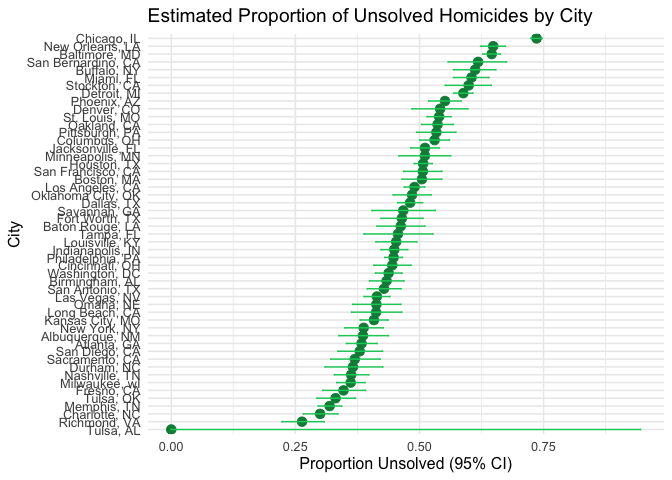
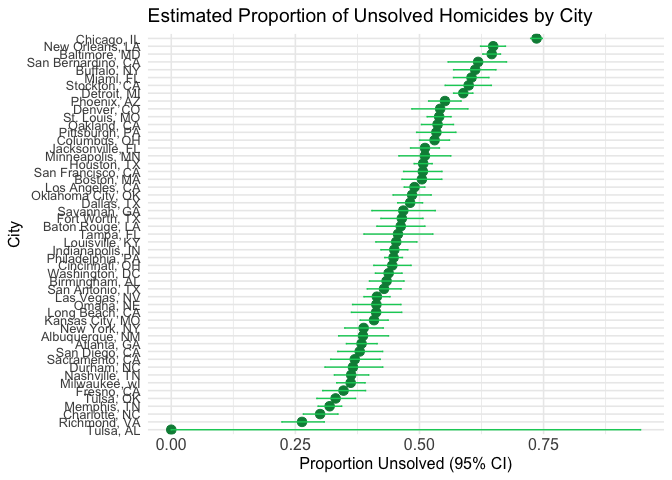
Update R Markdown -- Final commit before push

diff --git a/p8105_hw5_at3583.md b/p8105_hw5_at3583.md
@@ -1,21 +1,23 @@
-p8105_hw3_at3583
+p8105_hw5_at3583
 ================
 Alexandria D.Taylor,
-2025-11-10
+2025-11-13
 
-**<small><em>Overview: This homework applied .</small></em>**
+**This homework applied Monte Carlo methods, hypothesis testing, and
+proportion confidence intervals to examine probability, power, and
+uncertainty in simulated and real-world data.**
 
 # Problem 1 – Birthday Simulation
 
 ``` r
-#generate & run birthday simulation function
+# Generate birthday simulation function
 
 birthday_sim = function(n) {
   birthdays = sample(1:365, size = n, replace = TRUE)
   any(duplicated(birthdays))
 }
 
-#run birthday simulation function for group sizes 2 to 50 at 10,000 times each
+# Run birthday simulation function for group sizes 2 to 50 at 10,000 times each
 
 set.seed(123)
 
@@ -29,7 +31,7 @@ simulate_results = tibble(
   })
 )
 
-#data summary:compute the smallest group size where probability >= 0.5
+# Data summary:compute the smallest group size where probability >= 0.5
 threshold_50 <- simulate_results %>%
   filter(prob_shared_birthday >= 0.5) %>%
   slice(1) %>%
@@ -37,7 +39,7 @@ threshold_50 <- simulate_results %>%
 ```
 
 ``` r
-#probability vs group size plot
+# Probability vs group size plot
 
 simulate_results %>%
   ggplot(aes(x = group_size, y = prob_shared_birthday)) +
@@ -60,10 +62,10 @@ reaches **23 people**, a counterintuitive result known as the *birthday
 paradox*. By around **50 individuals**, the chance is nearly certain,
 making a shared birthday almost guaranteed.
 
-# Problem 2 – One Sample t-test
+# Problem 2 – One Sample t-Test
 
 ``` r
-#generate t-test parameters
+# Generate t-test parameters
 
 set.seed(8105)
 
@@ -71,13 +73,13 @@ n_sims <- 5000
 n      <- 30
 sigma  <- 5
 
-#true means to test 
+# True means test 
 mus    <- 0:6 
 alpha  <- 0.05
 ```
 
 ``` r
-# set-up n_sims dataset simultation at true mean mu
+# Set-up n_sims dataset simultation at true mean mu
 
 simulate_for_mu <- function(mu, n, sigma, n_sims, alpha = 0.05) {
   purrr::rerun(n_sims, rnorm(n, mean = mu, sd = sigma)) |>
@@ -93,20 +95,20 @@ simulate_for_mu <- function(mu, n, sigma, n_sims, alpha = 0.05) {
     })
 }
 
-# run n_sims dataset simultation 
+# Run n_sims dataset simulatation 
 
 sim_results <- purrr::map_dfr(mus, simulate_for_mu, n = n, sigma = sigma, n_sims = n_sims, alpha = alpha)
 ```
 
-## Power by effect size (mu)
+## <small><em> Power by effect size (mu) </small></em>
 
 ``` r
-#generate power datafram from simulation results
+# Generate power data frame from simulation results
 power_df <- sim_results |>
   group_by(mu) |>
   summarise(power = mean(reject), .groups = "drop")
 
-#generate average estimates-- overall vs. conditional on reject
+# Generate average estimates -- overall vs. conditional on reject
 estimates_df <- sim_results |>
   group_by(mu) |>
   summarise(
@@ -125,7 +127,7 @@ estimates_df <- sim_results |>
 ```
 
 ``` r
-#plot power df
+# Plot power df
 power_df |>
   ggplot(aes(x = mu, y = power)) +
   geom_line(color = primary_color, linewidth = 1.3) +
@@ -141,28 +143,24 @@ power_df |>
 ```
 
 ![](p8105_hw5_at3583_files/figure-gfm/unnamed-chunk-6-1.png)<!-- -->
+
 Summary: The probability of rejecting the null hypothesis increases as
-the true mean (μ) increases. When μ is close to 0, the test seldom
+the true mean (μ) increases. When μ is close to **0**, the test seldom
 rejects the null, indicating low power. As μ becomes larger, the effect
 becomes more detectable relative to noise, and power rises rapidly
-toward 1. This illustrates the fundamental principle that the expected
-relationship that larger effect sizes yield greater power in hypothesis
-testing.
+toward **1**. This illustrates the fundamental principle that the
+expected relationship that larger effect sizes yield greater power in
+hypothesis testing.
 
 ``` r
-# plot-estimates dataframe
+# Plot-estimates dataframe
 estimates_df |>
   ggplot(aes(x = mu, y = mean_hat, color = subset)) +
   geom_line(linewidth = 1) +
   geom_point(size = 2) +
   scale_x_continuous(breaks = mus) +
   scale_color_manual(values = c("All samples" = primary_color,
-                               "Reject H₀ only" = accent_color))
-```
-
-![](p8105_hw5_at3583_files/figure-gfm/unnamed-chunk-7-1.png)<!-- -->
-
-``` r
+                               "Reject H₀ only" = accent_color)) +
   labs(
     title = "Average estimate of μ̂ vs true μ",
     subtitle = "Conditioning on rejection inflates μ̂ (selection bias)",
@@ -173,14 +171,14 @@ estimates_df |>
   theme_minimal()
 ```
 
-    ## NULL
+![](p8105_hw5_at3583_files/figure-gfm/unnamed-chunk-7-1.png)<!-- -->
 
 Summary: Across all simulated samples, the average estimate of μ̂ closely
 matches the true mean μ, indicating that the estimator is unbiased.
 However, when considering only samples where the null hypothesis was
 rejected, the average μ̂ is inflated above the true value. This occurs
 because under low power, only the more extreme sample means yield
-produce significant results, introducing selection bias.
+significant results, introducing selection bias.
 
 # Problem 3 – Washington Post
 
@@ -194,7 +192,7 @@ library(purrr)
 homicide_df <- read_csv("https://raw.githubusercontent.com/washingtonpost/data-homicides/master/homicide-data.csv") |>
   clean_names()
 
-# create city_state variable & flag unsolved cases
+# Create city_state variable & flag unsolved cases
 homicide_city <- homicide_df |> 
   mutate(
     city_state = str_c(city, ", ", state),
@@ -267,10 +265,10 @@ knitr::kable(city_summary, caption = "Homicide counts and unsolved cases by city
 
 Homicide counts and unsolved cases by city
 
-Summary: The dataset includes 52179 homicide records from 50 U.S.
-cities, with 12 variables detailing victim demographics (age, sex,
+Summary: The dataset includes **52179** homicide records from 50 U.S.
+cities, with **12** variables detailing victim demographics (age, sex,
 race), geographic information, and case outcomes. Each row represents a
-single homicide incident. Some fields contain missing data – 0 cases
+single homicide incident. Some fields contain missing data – **0** cases
 lack recorded victim race—and several disposition categories required
 recoding to determine whether a case is solved. In this analysis, both
 *Open/No arrest* and *Closed without arrest* are classified as unsolved.
@@ -278,17 +276,17 @@ recoding to determine whether a case is solved. In this analysis, both
 ## Baltimore, MD
 
 ``` r
-# filter data to Baltimore
+# Filter data to Baltimore
 baltimore_df <- homicide_city |> 
   filter(city_state == "Baltimore, MD")
 
-# run prop test
+# Run prop test
 baltimore_test <- prop.test(
   x = sum(baltimore_df$unsolved),
   n = nrow(baltimore_df)
 )
 
-# tidy filtered results
+# Tidy filtered results
 baltimore_summary <- baltimore_test |> 
   broom::tidy() |> 
   select(estimate, conf.low, conf.high)
@@ -307,7 +305,7 @@ The estimated proportion of unsolved homicides in Baltimore is
 ## City Analysis, prop.test()
 
 ``` r
-# prop.test for each city
+# Prop.test for each city
 city_prop_tests <- homicide_city %>%
   group_by(city_state) %>%
   summarise(
@@ -340,7 +338,7 @@ head(city_prop_tests)
     ## 6 Boston, MA         0.505    0.465     0.545
 
 ``` r
-#plot city prop test output
+# Plot city prop test output
 city_prop_tests %>%
   ggplot(aes(x = reorder(city_state, estimate), y = estimate)) +
   geom_point(color = accent_color, size = 3) +
@@ -352,7 +350,19 @@ city_prop_tests %>%
     x = "City",
     y = "Proportion Unsolved (95% CI)"
   ) +
-  theme_minimal(base_size = 12)
+  theme_minimal(base_size = 12) +
+  theme(
+  axis.text.x = element_text( size = 12,
+    margin = margin(r = 30)
+   )
+  )
 ```
 
 ![](p8105_hw5_at3583_files/figure-gfm/unnamed-chunk-11-1.png)<!-- -->
+
+Summary: Across the 50 cities, the proportion of homicides that remain
+unsolved varies substantially, ranging from **0** to **0.74**. Cities
+with higher unsolved proportions tend to have wider confidence
+intervals, reflecting greater uncertainty that often stems from smaller
+total case counts. Baltimore falls among the cities with a notably high
+share unsolved cases.
